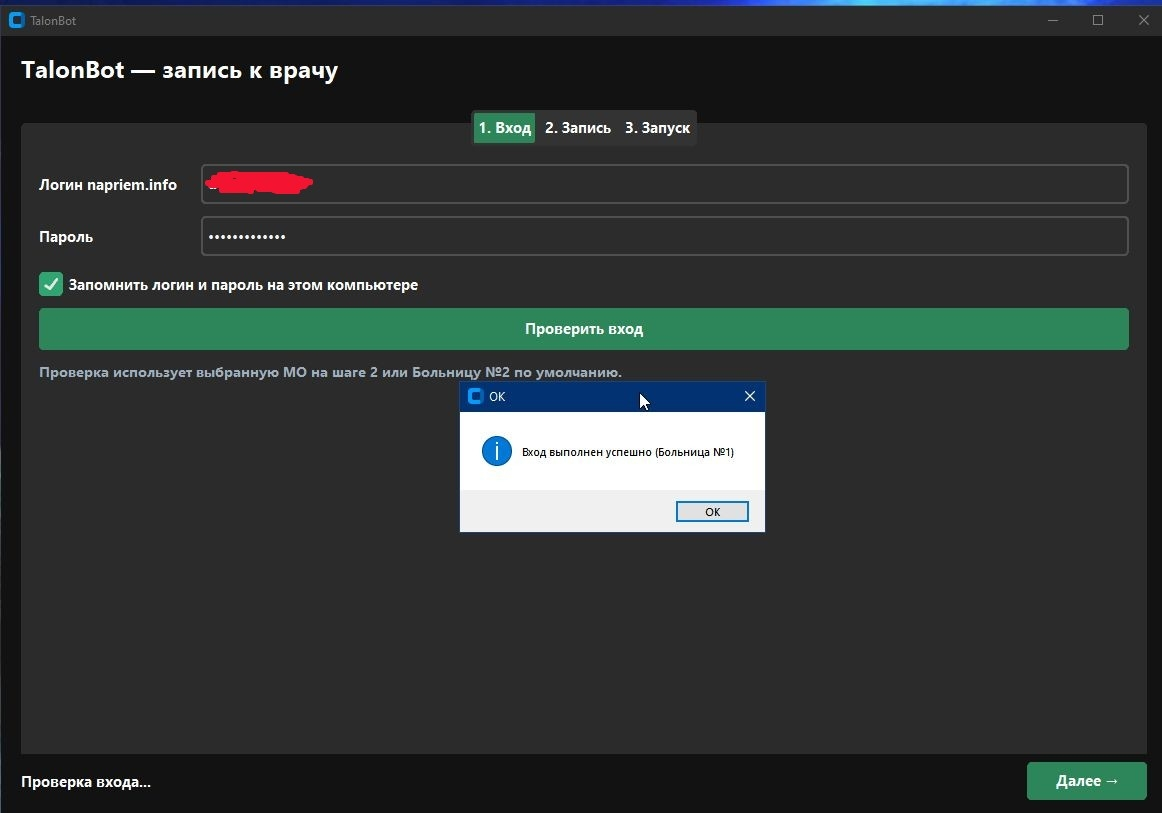
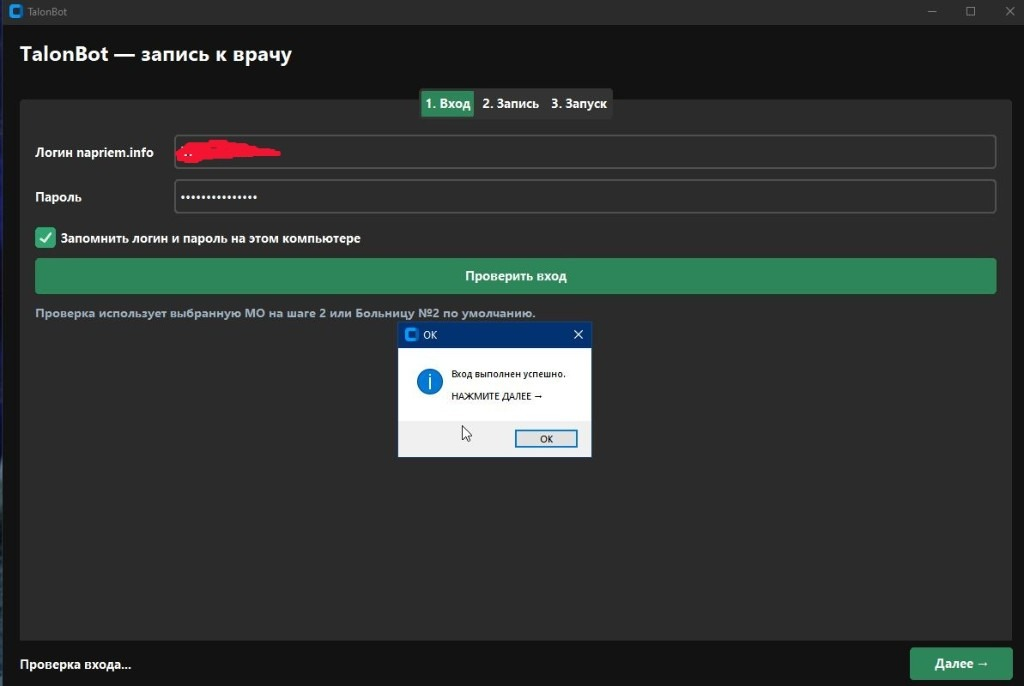
docs: обновить галерею скриншотов v1.1
Заменены скрины входа, записи и мониторинга; добавлен скрин сохранения .env с подсказками.

diff --git a/README.md b/README.md
@@ -79,23 +79,31 @@
 ## 📸 Скриншоты
 
 <p align="center">
-  <img src="docs/screenshots/1.jpg" alt="Вкладка «Вход» — авторизация на napriem.info" width="48%">
+  <img src="docs/screenshots/1.jpg" alt="Вкладка «Вход» — успешная авторизация с подсказкой «НАЖМИТЕ ДАЛЕЕ»" width="48%">
   &nbsp;
-  <img src="docs/screenshots/2.jpg" alt="Вкладка «Запись» — выбор больницы и врача" width="48%">
+  <img src="docs/screenshots/2.jpg" alt="Вкладка «Запись» — выбор больницы, отделения и врача" width="48%">
 </p>
 
 <p align="center">
-  <sub><b>1. Вход</b> — логин и проверка авторизации &nbsp;·&nbsp; <b>2. Запись</b> — больница, отделение, специальность, врач</sub>
+  <sub><b>1. Вход</b> — проверка логина и подсказка перейти дальше &nbsp;·&nbsp; <b>2. Запись</b> — больница, отделение, специальность, врач</sub>
 </p>
 
 <p align="center">
-  <img src="docs/screenshots/3.jpg" alt="Вкладка «Запуск» — интервал дат, настройки и управление ботом" width="48%">
+  <img src="docs/screenshots/5.jpg" alt="Сохранение настроек в .env с подсказкой «Запустить бота»" width="48%">
   &nbsp;
+  <img src="docs/screenshots/3.jpg" alt="Вкладка «Запуск» — интервал дат, бот работает, логи мониторинга" width="48%">
+</p>
+
+<p align="center">
+  <sub><b>3. Сохранение</b> — даты и подсказка запуска &nbsp;·&nbsp; <b>4. Мониторинг</b> — «● Бот работает», интервал дат, логи в реальном времени</sub>
+</p>
+
+<p align="center">
   <img src="docs/screenshots/4.jpg" alt="Успешная запись — талон взят" width="48%">
 </p>
 
 <p align="center">
-  <sub><b>3. Запуск</b> — интервал дат, опрос и управление ботом &nbsp;·&nbsp; <b>4. Успех</b> — звук + баннер «ТАЛОН УСПЕШНО ВЗЯТ»</sub>
+  <sub><b>5. Успех</b> — звук + баннер «ТАЛОН УСПЕШНО ВЗЯТ»</sub>
 </p>
 
 ---

diff --git a/docs/screenshots/README.md b/docs/screenshots/README.md
@@ -4,9 +4,10 @@
 
 | Файл | Экран | Описание |
 |------|-------|----------|
-| `1.jpg` | Вход | Авторизация napriem.info, проверка входа |
+| `1.jpg` | Вход | Успешная авторизация, подсказка «НАЖМИТЕ ДАЛЕЕ» |
 | `2.jpg` | Запись | Больница, отделение, специальность, врач |
-| `3.jpg` | Запуск | Интервал опроса, кнопки бота, логи |
+| `5.jpg` | Запуск | Сохранение `.env`, интервал дат, подсказка «Запустить бота» |
+| `3.jpg` | Запуск | «● Бот работает», интервал дат, логи мониторинга |
 | `4.jpg` | Успех | Баннер «ТАЛОН УСПЕШНО ВЗЯТ» |
 
 ## Перед публикацией
